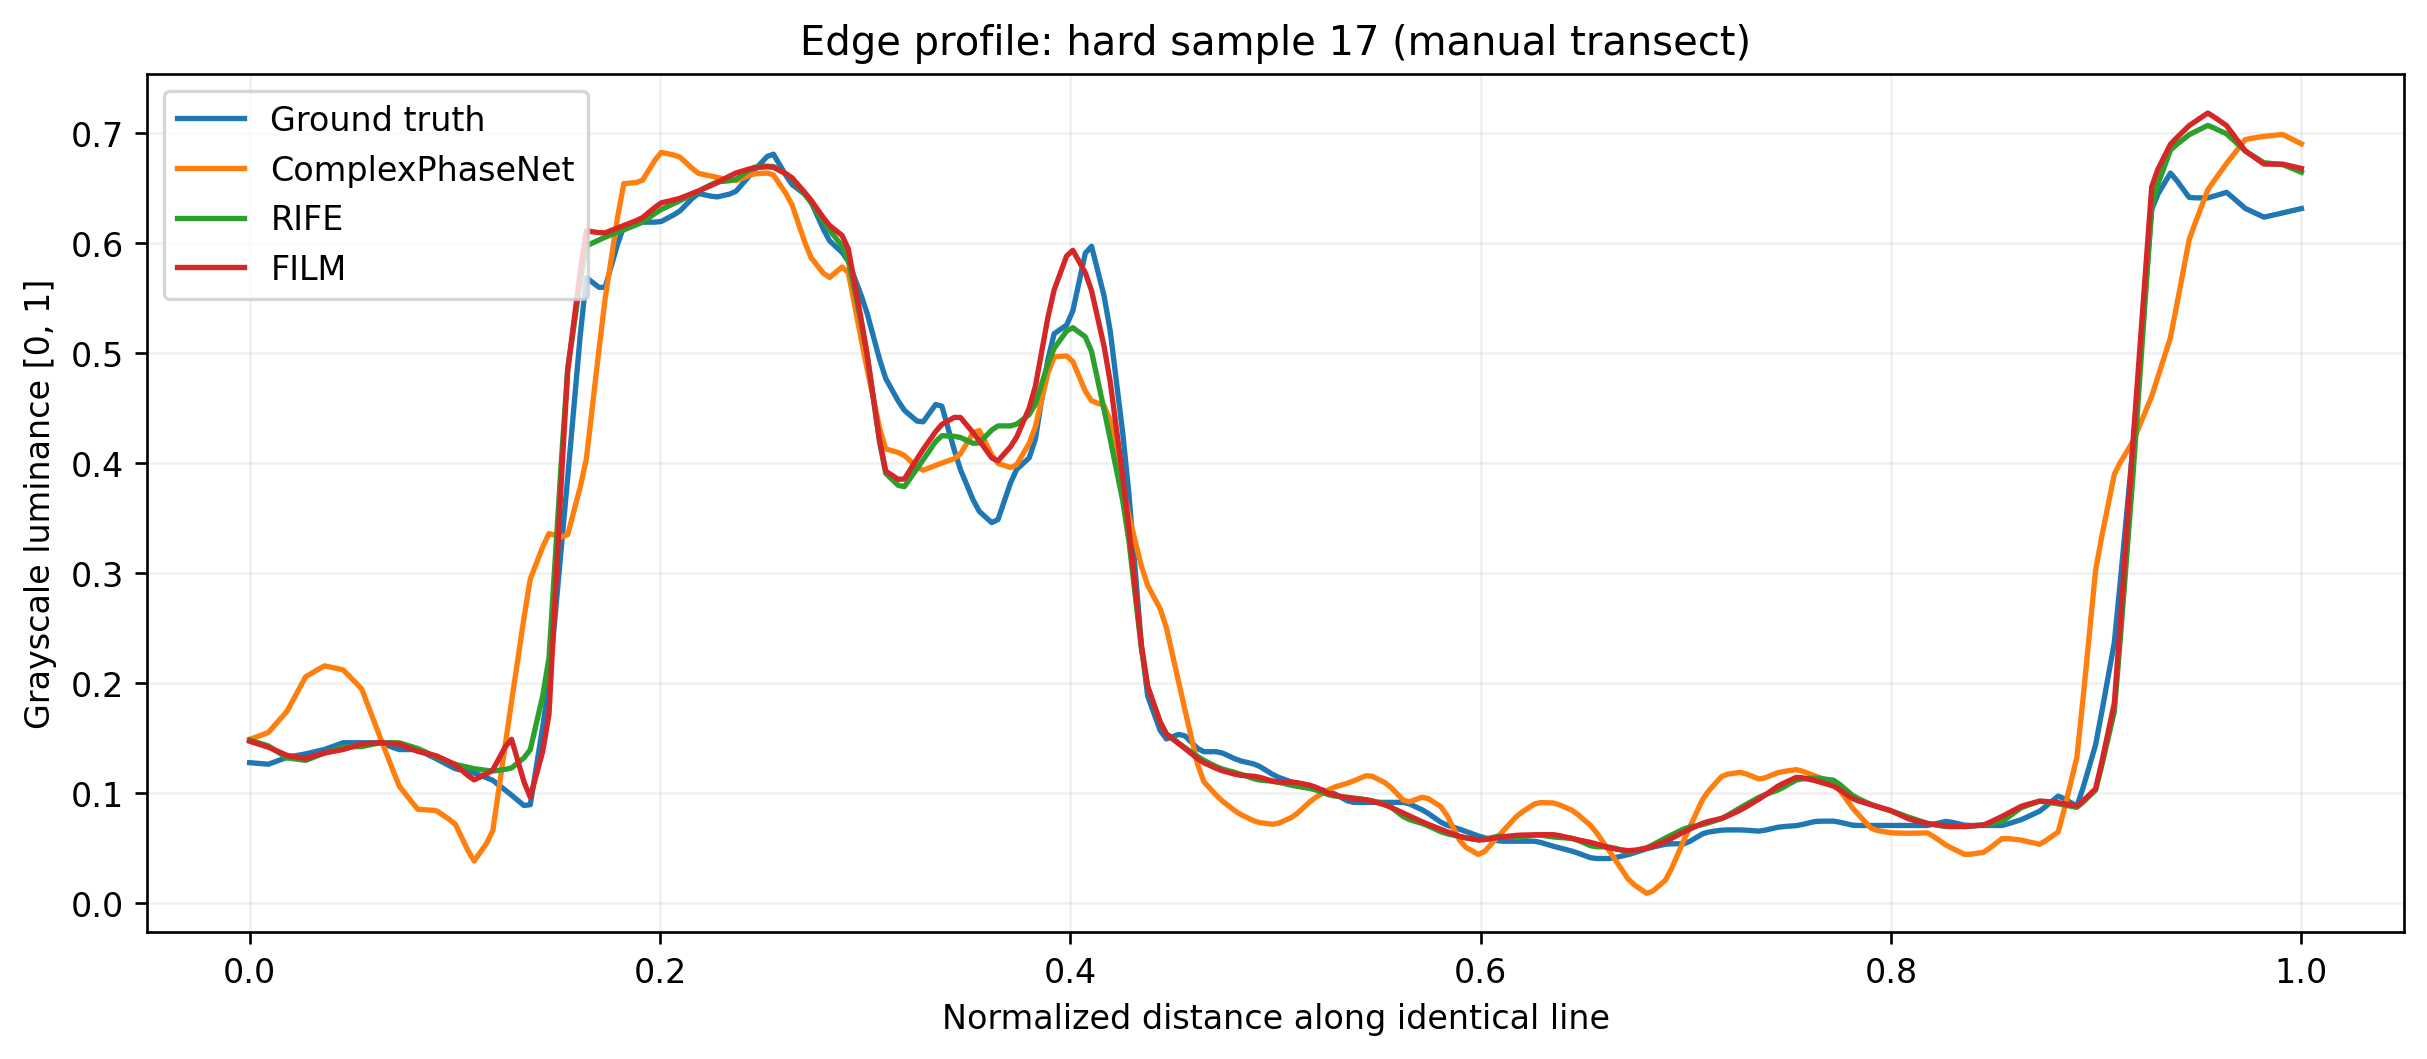
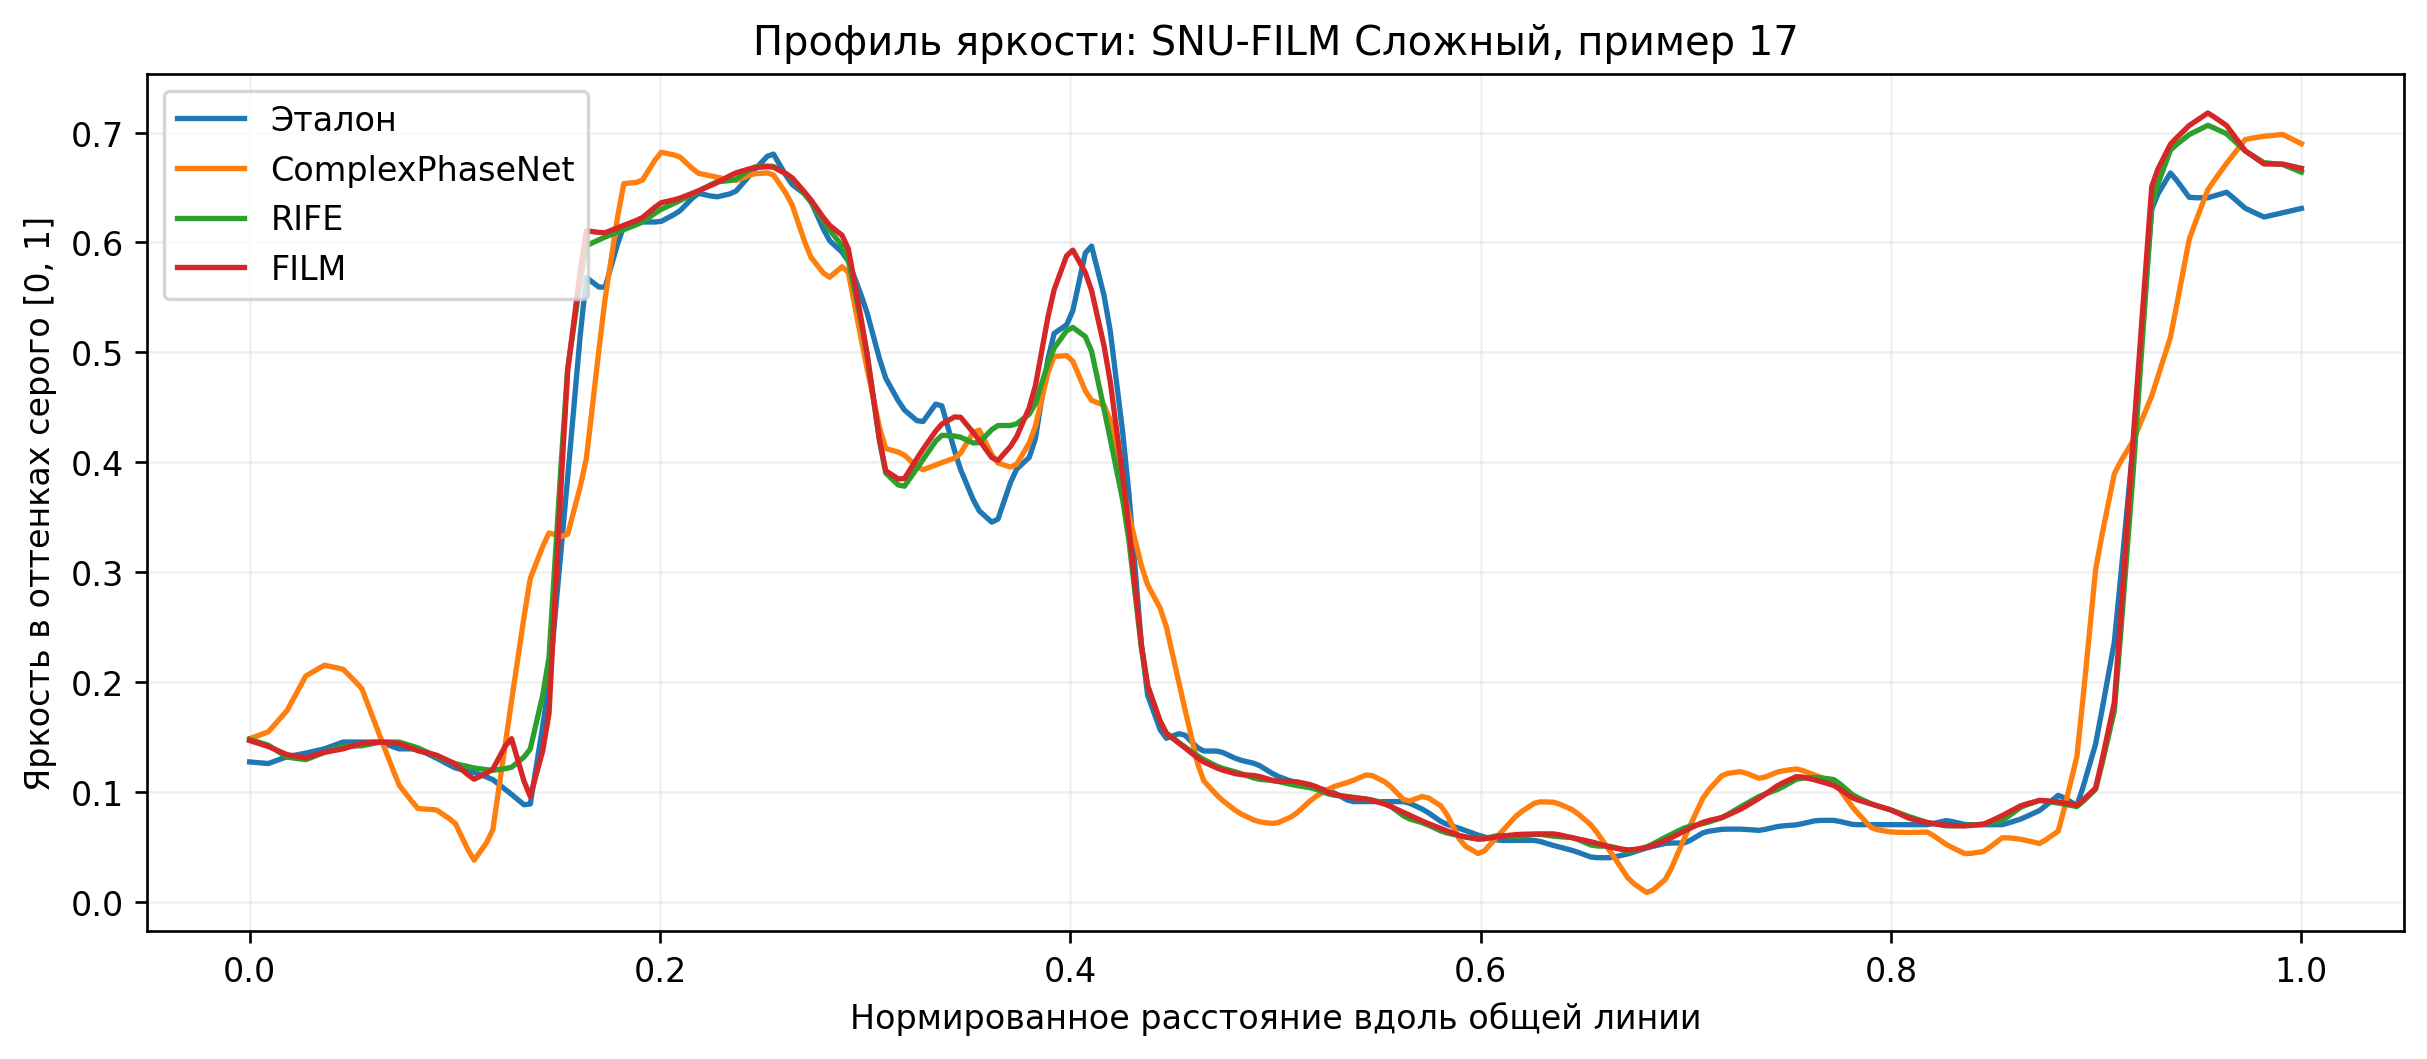
Russian version of ghosting_blur_analysis.py

diff --git a/tools/ghosting_blur_analysis_ru.py b/tools/ghosting_blur_analysis_ru.py
@@ -1,0 +1,223 @@
+#!/usr/bin/env python3
+"""Визуальный анализ размытия и двоения контуров на одинаковых примерах SNU-FILM.
+
+Строки: исходный кадр I0, эталон, исходный кадр I1, ComplexPhaseNet, RIFE, FILM.
+Столбцы: полный кадр (общая область), увеличенный фрагмент без сглаживания,
+          абсолютная RGB-ошибка.
+Необязательный параметр --line строит профили яркости по выбранной вручную линии.
+Метрики описывают ошибки одного фрагмента и НЕ являются валидированными
+детекторами двоения контуров или размытия.
+Имена CLI-параметров, значения --mode/--phenomenon, пути, имена полей CSV/JSON
+сохранены для совместимости с существующим исследовательским конвейером.
+"""
+import argparse
+import csv
+import hashlib
+import json
+import shlex
+from pathlib import Path
+
+import matplotlib
+matplotlib.use("Agg")
+import matplotlib.patches as patches
+import matplotlib.pyplot as plt
+import numpy as np
+from PIL import Image
+
+MODES = ("easy", "medium", "hard", "extreme")
+LABELS = (("input_0", "Исходный кадр I₀"), ("gt", "Эталон"),
+          ("input_1", "Исходный кадр I₁"), ("complex", "ComplexPhaseNet"),
+          ("rife", "RIFE"), ("film", "FILM"))
+MODE_LABELS = {"easy": "Лёгкий", "medium": "Средний", "hard": "Сложный", "extreme": "Экстремальный"}
+PHENOMENON_LABELS = {"blur": "анализ размытия", "ghosting": "анализ двоения контуров",
+                     "mixed": "анализ смешанных артефактов", "inspection": "визуальный анализ"}
+
+
+def digest(path):
+    h = hashlib.sha256()
+    with Path(path).open("rb") as f:
+        for b in iter(lambda: f.read(2**20), b""):
+            h.update(b)
+    return h.hexdigest()
+
+
+def official_triplet(root, mode, index):
+    file = root / "eval_modes" / f"test-{mode}.txt"
+    if not file.is_file():
+        file = root / f"test-{mode}.txt"
+    if not file.is_file():
+        raise FileNotFoundError(f"Официальный список троек не найден: {root}/eval_modes/test-{mode}.txt")
+    lines = [shlex.split(s) for s in file.read_text(encoding="utf-8").splitlines()
+             if s.strip() and not s.lstrip().startswith("#")]
+    if not 0 <= index < len(lines) or len(lines[index]) != 3:
+        raise ValueError(f"Недопустимый индекс {index} в файле {file} (троек: {len(lines)})")
+    result = []
+    for entry in lines[index]:
+        raw = Path(entry).expanduser()
+        candidates = [raw] if raw.is_absolute() else [root / raw, file.parent / raw]
+        matches = [p.resolve() for p in candidates if p.is_file()]
+        if not matches:
+            raise FileNotFoundError(f"Кадр {entry!r} не найден относительно {root} или {file.parent}")
+        result.append(matches[0])
+    return result, file
+
+
+def read(path):
+    with Image.open(path) as im:
+        if im.mode != "RGB":
+            raise ValueError(f"Ожидалось изображение RGB, получено {im.mode}: {path}")
+        return np.asarray(im, dtype=np.uint8).copy()
+
+
+def gray(image):
+    rgb = image.astype(np.float32) / 255.0
+    return rgb[..., 0] * .299 + rgb[..., 1] * .587 + rgb[..., 2] * .114
+
+
+def gradients(image):
+    gy, gx = np.gradient(gray(image))
+    return np.hypot(gx, gy)
+
+
+def bilinear(image, xs, ys):
+    y_max, x_max = image.shape[:2]
+    xs, ys = np.clip(xs, 0, x_max - 1), np.clip(ys, 0, y_max - 1)
+    x0 = np.floor(xs).astype(int); y0 = np.floor(ys).astype(int)
+    x1 = np.minimum(x0 + 1, x_max - 1); y1 = np.minimum(y0 + 1, y_max - 1)
+    dx, dy = xs - x0, ys - y0
+    return ((1 - dx)*(1 - dy)*image[y0, x0] + dx*(1 - dy)*image[y0, x1]
+            + (1 - dx)*dy*image[y1, x0] + dx*dy*image[y1, x1])
+
+
+def main():
+    p = argparse.ArgumentParser(description=__doc__)
+    p.add_argument("--snu-root", type=Path, default=Path("SNU-FILM"))
+    p.add_argument("--mode", choices=MODES, required=True)
+    p.add_argument("--index", type=int, help="Индекс с нуля; по умолчанию используется ранее выбранный репрезентативный пример")
+    p.add_argument("--config", type=Path, default=Path("figures/snufilm_average/selections.json"))
+    p.add_argument("--crop", type=int, nargs=4, metavar=("X0", "Y0", "X1", "Y1"),
+                   help="Координаты области в исходном разрешении; одинаковы для всех моделей")
+    p.add_argument("--line", type=float, nargs=4, metavar=("X0", "Y0", "X1", "Y1"),
+                   help="Необязательная линия через границу внутри --crop (координаты исходного кадра)")
+    p.add_argument("--phenomenon", choices=("blur", "ghosting", "mixed", "inspection"),
+                   default="inspection", help="Гипотеза исследователя, а не результат автоматического обнаружения")
+    p.add_argument("--roi-note", default="", help="Описание объекта или контура, по которому выбрана область")
+    p.add_argument("--external-dir", type=Path, default=Path("outputs/external_snufilm"))
+    p.add_argument("--internal-dir", type=Path, default=Path("qualitative_snufilm_average_selected"))
+    p.add_argument("--complex-pred", type=Path, help="Путь к PNG-предсказанию ComplexPhaseNet вместо стандартного")
+    p.add_argument("--output-dir", type=Path, default=Path("figures/snufilm_ghosting_blur"))
+    a = p.parse_args()
+    a.snu_root = a.snu_root.expanduser().resolve()
+    selections = {}
+    if a.config.is_file():
+        selections = json.loads(a.config.read_text(encoding="utf-8")).get("selections", {})
+    sample = selections.get(a.mode, {})
+    index = a.index if a.index is not None else sample.get("sample_index")
+    if index is None:
+        p.error("Укажите --index или задайте пример этого уровня в конфигурации выбора")
+    index = int(index)
+    crop = list(a.crop) if a.crop is not None else sample.get("crop")
+    if crop is None or len(crop) != 4:
+        p.error("Укажите --crop X0 Y0 X1 Y1 или координаты области в конфигурации")
+    triplet, list_file = official_triplet(a.snu_root, a.mode, index)
+    complex_path = (a.complex_pred if a.complex_pred is not None else
+                    a.internal_dir / "complex_full" / a.mode / "samples" / str(index) / "prediction.png")
+    paths = {"input_0": triplet[0], "gt": triplet[1], "input_1": triplet[2],
+             "complex": complex_path,
+             "rife": a.external_dir / "rife" / a.mode / f"{index:05d}_pred.png",
+             "film": a.external_dir / "film" / a.mode / f"{index:05d}_pred.png"}
+    images = {key: read(path) for key, path in paths.items()}
+    shape = images["gt"].shape
+    mismatch = {k: v.shape for k, v in images.items() if v.shape != shape}
+    if mismatch:
+        raise ValueError(f"Размеры изображений не совпадают с эталоном {shape}: {mismatch}")
+    H, W = shape[:2]
+    x0, y0, x1, y1 = crop
+    if not (0 <= x0 < x1 <= W and 0 <= y0 < y1 <= H):
+        raise ValueError(f"Недопустимая общая область {crop} для изображения {W}×{H}")
+    if a.line is not None:
+        lx0, ly0, lx1, ly1 = a.line
+        if not all(x0 <= x < x1 and y0 <= y < y1 for x, y in ((lx0, ly0), (lx1, ly1))):
+            raise ValueError("Обе конечные точки --line должны находиться ВНУТРИ общей области --crop")
+        if np.hypot(lx1 - lx0, ly1 - ly0) < 3:
+            raise ValueError("Длина --line должна составлять не менее 3 пикселей")
+    a.output_dir.mkdir(parents=True, exist_ok=True)
+    stem = f"{a.mode}_{index:05d}"
+    gt_crop = images["gt"][y0:y1, x0:x1]
+    gt_grad = gradients(gt_crop)
+    fields = ("mode", "sample_index", "model", "crop_x0", "crop_y0", "crop_x1", "crop_y1",
+              "crop_mae", "gradient_mae", "edge_strength_ratio")
+    records = []
+    for key in ("complex", "rife", "film"):
+        pcrop = images[key][y0:y1, x0:x1]
+        g = gradients(pcrop)
+        records.append({"mode": a.mode, "sample_index": index, "model": key,
+                        "crop_x0": x0, "crop_y0": y0, "crop_x1": x1, "crop_y1": y1,
+                        "crop_mae": float(np.mean(np.abs(pcrop.astype(float) - gt_crop.astype(float))) / 255.0),
+                        "gradient_mae": float(np.mean(np.abs(g - gt_grad))),
+                        "edge_strength_ratio": float(g.sum() / (gt_grad.sum() + 1e-8))})
+    with (a.output_dir / f"{stem}_crop_metrics.csv").open("w", newline="", encoding="utf-8") as f:
+        writer = csv.DictWriter(f, fields); writer.writeheader(); writer.writerows(records)
+
+    # Единая цветовая шкала абсолютной ошибки для всех строк.
+    fig, axes = plt.subplots(len(LABELS), 3, figsize=(17, 19), constrained_layout=True)
+    for row, (key, label) in enumerate(LABELS):
+        image = images[key]
+        full, zoom, error = axes[row]
+        full.imshow(image, interpolation="nearest")
+        full.add_patch(patches.Rectangle((x0, y0), x1-x0, y1-y0, fill=False,
+                                         edgecolor="yellow", linewidth=1.7))
+        full.set_ylabel(label, fontsize=11, weight="bold")
+        full.set_xticks([]); full.set_yticks([])
+        crop_image = image[y0:y1, x0:x1]
+        zoom.imshow(crop_image, interpolation="nearest")
+        if a.line is not None:
+            zoom.plot([a.line[0]-x0, a.line[2]-x0], [a.line[1]-y0, a.line[3]-y0],
+                      color="cyan", linewidth=1.3)
+        zoom.set_xticks([]); zoom.set_yticks([])
+        abs_error = np.mean(np.abs(crop_image.astype(np.float32)-gt_crop.astype(np.float32)), axis=2)/255
+        error.imshow(abs_error, cmap="magma", vmin=0, vmax=.3, interpolation="nearest")
+        error.set_xticks([]); error.set_yticks([])
+        if row == 0:
+            for ax, title in zip((full, zoom, error),
+                                 ("Полный кадр и общая область", "Общий фрагмент (без сглаживания)",
+                                  "Средняя абсолютная RGB-ошибка (шкала 0–0,3)")):
+                ax.set_title(title, fontsize=10, weight="bold")
+    fig.suptitle(f"SNU-FILM · {MODE_LABELS[a.mode]} · пример {index}: {PHENOMENON_LABELS[a.phenomenon]}",
+                 fontsize=16, weight="bold")
+    main_figure = a.output_dir / f"{stem}_comparison.png"
+    fig.savefig(main_figure, dpi=210, facecolor="white", bbox_inches="tight")
+    plt.close(fig)
+    if a.line is not None:
+        n = max(64, int(np.ceil(np.hypot(a.line[2]-a.line[0], a.line[3]-a.line[1])*3)))
+        xs = np.linspace(a.line[0], a.line[2], n)
+        ys = np.linspace(a.line[1], a.line[3], n)
+        fig, ax = plt.subplots(figsize=(10, 4.3), constrained_layout=True)
+        for key, label in (LABELS[1], *LABELS[3:]):
+            profile = bilinear(gray(images[key]), xs, ys)
+            ax.plot(np.linspace(0, 1, n), profile, label=label, linewidth=1.6)
+        ax.set(xlabel="Нормированное расстояние вдоль общей линии", ylabel="Яркость в оттенках серого [0, 1]",
+               title=f"Профиль яркости: SNU-FILM {MODE_LABELS[a.mode]}, пример {index}")
+        ax.legend(); ax.grid(alpha=.18)
+        fig.savefig(a.output_dir / f"{stem}_edge_profile.png", dpi=240,
+                    facecolor="white", bbox_inches="tight")
+        plt.close(fig)
+    metadata = {"mode": a.mode, "sample_index": index, "official_list": str(list_file),
+                "native_dimensions_wh": [W, H], "crop_xyxy": crop, "line_xyxy": a.line,
+                "phenomenon_to_inspect": a.phenomenon, "roi_note": a.roi_note,
+                "selection_policy": "existing internal-model representative selection" if a.index is None else "explicit user index",
+                "note": "MAE и градиентные метрики фрагмента носят описательный характер и не служат валидированными детекторами размытия или двоения; требуется визуальная проверка.",
+                "inputs_sha256": {key: {"path": str(path), "sha256": digest(path)} for key, path in paths.items()}}
+    (a.output_dir / f"{stem}_metadata.json").write_text(json.dumps(metadata, indent=2)+"\n", encoding="utf-8")
+    print(f"Сохранено: {main_figure}")
+    if a.line is not None:
+        print(f"Сохранено: {a.output_dir / (stem+'_edge_profile.png')}")
+    print(f"Сохранено: {a.output_dir / (stem+'_crop_metrics.csv')}")
+    print(f"Сохранено: {a.output_dir / (stem+'_metadata.json')}")
+    for r in records:
+        print(f"{r['model']:<8} MAE фрагмента={r['crop_mae']:.5f} "
+              f"MAE градиента={r['gradient_mae']:.5f} отношение силы границ={r['edge_strength_ratio']:.4f}")
+
+
+if __name__ == "__main__":
+    main()
